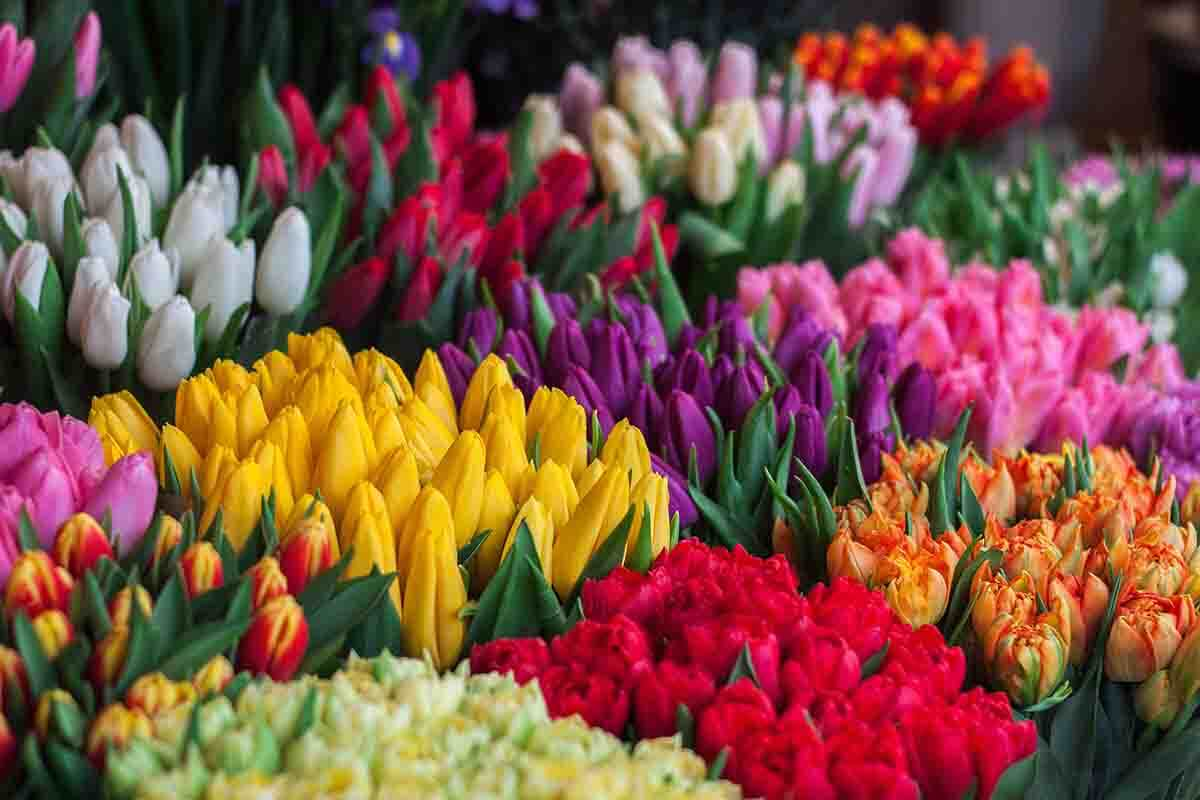
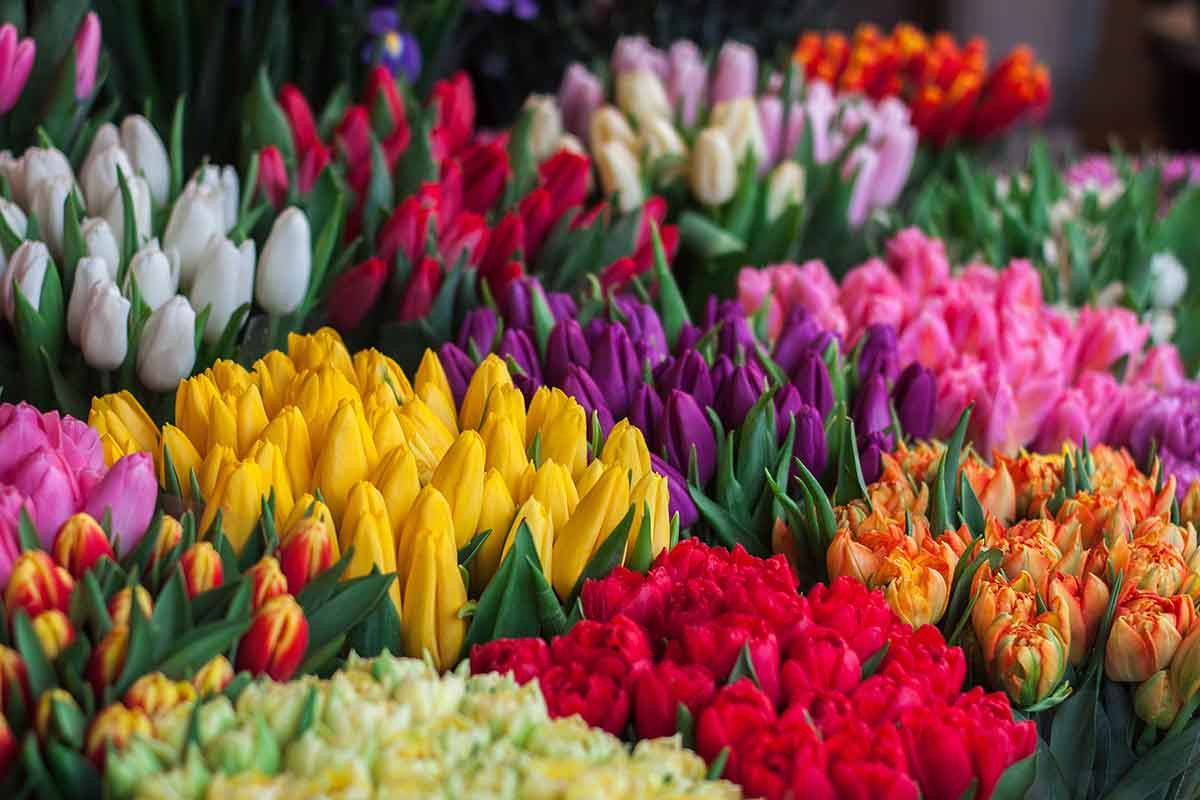
Add hero image and animation for zoom effect

diff --git a/assets/css/styles.css b/assets/css/styles.css
@@ -58,6 +58,7 @@ nav {
     justify-content: space-between;
     align-items: center;
     flex-wrap: wrap;
+    z-index: 2;
 }
 
 .nav__component {
@@ -346,5 +347,32 @@ ul>.nav__item {
 @media screen and (max-width: 324px) {
     nav li {
         padding: 10px;
+    }
+}
+
+/* Hero image */
+
+.hero__container {
+    height: 70vh;
+    width: 100%;
+    overflow: hidden;
+}
+
+.hero__image {
+    height: 70vh;
+    width: 100%;
+    background: url(../images/hero-image-xlarge.jpg) no-repeat;
+    background-size: cover;
+    background-position: center;
+    animation: hero-zoom 5s ease-in-out forwards;
+}
+
+@keyframes hero-zoom {
+    0% {
+        transform: scale(1);
+    }
+
+    100% {
+        transform: scale(1.1);
     }
 }

diff --git a/index.html b/index.html
@@ -48,7 +48,9 @@
         </nav>
     </header>
     <main>
-        <section>hero image</section>
+        <section class="hero__container">
+            <div class="hero__image"></div>
+        </section>
         <section>about us with buttons</section>
         <section>our services with buttons</section>
         <section>testimonials slider</section>
